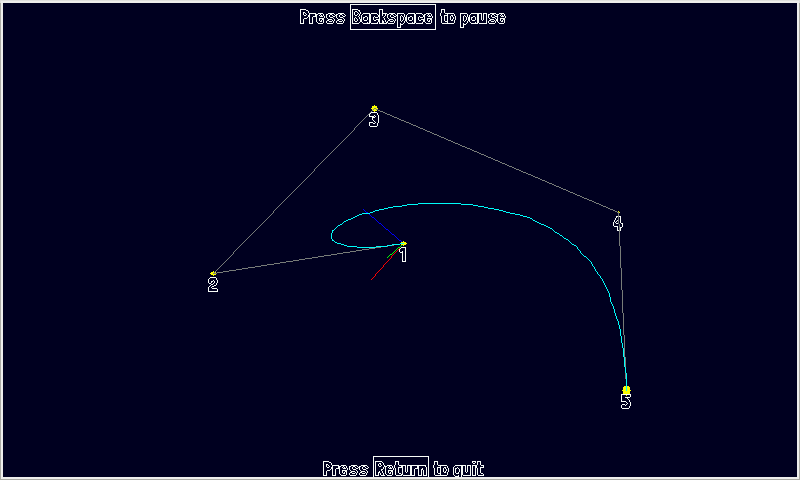
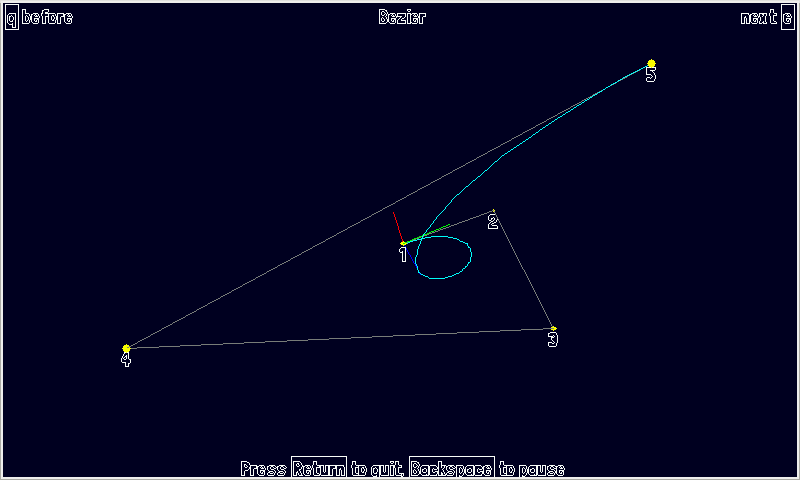
Hermit De Casteljau

diff --git a/curves.c b/curves.c
@@ -17,11 +17,13 @@ typedef struct sPoint
 	pPoint next;
 } tPoint;
 
+#define TYPE_MAX 4
 typedef enum eType
 {
 	lagrange = 0,
 	hermit = 1,
-	bezier = 2
+	bezier = 2,
+	casteljau = 3
 } tType;
 
 tType type = lagrange;
@@ -30,6 +32,7 @@ pPoint firstPoint = NULL;
 pPoint  lastPoint = NULL;
 pPoint* pointArray;
 int pointCount;
+int hermitCount;
 float maxU = 0.0f;
 
 void resize( Uint16 w, Uint16 h )
@@ -98,6 +101,40 @@ float B_g_i(float t,int g,int i)
 	return g_over_i(g,i)*pow(1.0f-t,g-i)*pow(t,i);
 }
 
+float H_3_i(float t,int i)
+{
+	switch (i)
+	{
+		case 0: return (1.0f-t)*(1.0f-t)*(1.0f+2.0f*t);
+		case 1: return t*(1.0f-t)*(1.0f-t);
+		case 2: return -t*t*(1.0f-t);
+		case 3: return (3.0f-2.0f*t)*t*t;
+	}
+	return 0.0f;
+}
+
+float delta_i(int i)
+{
+	return pointArray[i+1]->u-pointArray[i]->u;
+}
+
+float s_i(float t,int i)
+{
+	return (t-pointArray[i]->u)/delta_i(i);
+}
+
+tPoint b_r_i(float t,int r,int i)
+{
+	if (r <= 0)
+		return (*pointArray[i]);
+	tPoint result,L,R;
+	L = b_r_i(t,r-1,i);
+	R = b_r_i(t,r-1,i+1);
+	result.x = (1.0f-t)*L.x+t*R.x;
+	result.y = (1.0f-t)*L.y+t*R.y;
+	result.z = (1.0f-t)*L.z+t*R.z;
+	return result;
+}
 
 void draw(void)
 {
@@ -133,13 +170,13 @@ void draw(void)
 	for (i = 1; i < pointCount; i++)
 		spLine3D(spFloatToFixed(pointArray[i-1]->x),spFloatToFixed(pointArray[i-1]->y),spFloatToFixed(pointArray[i-1]->z),
 						 spFloatToFixed(pointArray[i  ]->x),spFloatToFixed(pointArray[i  ]->y),spFloatToFixed(pointArray[i  ]->z),spGetFastRGB(127,127,127));
-	spSetAlphaTest(0);
   //curve
   float t;
   tPoint prev;
   switch (type)
   {
 		case lagrange:
+			spSetAlphaTest(0);
 			for (t = 0.0f; t <= maxU; t+=0.01f)
 			{
 				tPoint mom = {0.0f,0.0f,0.0f};
@@ -155,7 +192,83 @@ void draw(void)
 					         spFloatToFixed( mom.x),spFloatToFixed( mom.y),spFloatToFixed( mom.z),spGetFastRGB(255,0,255));
 				prev = mom;
 			}
+			spSetAlphaTest(1);
+			spFontDrawMiddle(screen->w>>1,2,-1,"Lagrange",font);
+		break;
 		case hermit:
+			for (i = 0; i < hermitCount; i++)
+				for (t = pointArray[i]->u; t < pointArray[(i+1)%hermitCount]->u; t+=0.01f)
+				{
+					tPoint mom,m1,m2;
+					if (i == 0)
+					{
+						m1.x = pointArray[(i+1)%hermitCount]->x - pointArray[(i+hermitCount-2)%hermitCount]->x;
+						m1.y = pointArray[(i+1)%hermitCount]->y - pointArray[(i+hermitCount-2)%hermitCount]->y;
+						m1.z = pointArray[(i+1)%hermitCount]->z - pointArray[(i+hermitCount-2)%hermitCount]->z;
+					}
+					else
+					if (i != pointCount)
+					{
+						m1.x = pointArray[(i+1)%hermitCount]->x - pointArray[(i+hermitCount-1)%hermitCount]->x;
+						m1.y = pointArray[(i+1)%hermitCount]->y - pointArray[(i+hermitCount-1)%hermitCount]->y;
+						m1.z = pointArray[(i+1)%hermitCount]->z - pointArray[(i+hermitCount-1)%hermitCount]->z;
+					}
+					else
+					{
+						m1.x = pointArray[(i+2)%hermitCount]->x - pointArray[(i+hermitCount-1)%hermitCount]->x;
+						m1.y = pointArray[(i+2)%hermitCount]->y - pointArray[(i+hermitCount-1)%hermitCount]->y;
+						m1.z = pointArray[(i+2)%hermitCount]->z - pointArray[(i+hermitCount-1)%hermitCount]->z;
+					}
+					/*float l = sqrt(m1.x*m1.x+m1.y*m1.y+m1.z*m1.z);
+					m1.x /= l;
+					m1.y /= l;
+					m1.z /= l;*/
+					if (i == 0)
+					{
+						m2.x = pointArray[(i+2)%hermitCount]->x - pointArray[(i+0)%hermitCount]->x;
+						m2.y = pointArray[(i+2)%hermitCount]->y - pointArray[(i+0)%hermitCount]->y;
+						m2.z = pointArray[(i+2)%hermitCount]->z - pointArray[(i+0)%hermitCount]->z;
+					}
+					else
+					if (i != pointCount)
+					{
+						m2.x = pointArray[(i+2)%hermitCount]->x - pointArray[(i+0)%hermitCount]->x;
+						m2.y = pointArray[(i+2)%hermitCount]->y - pointArray[(i+0)%hermitCount]->y;
+						m2.z = pointArray[(i+2)%hermitCount]->z - pointArray[(i+0)%hermitCount]->z;
+					}
+					else
+					{
+						m2.x = pointArray[(i+3)%hermitCount]->x - pointArray[(i+1)%hermitCount]->x;
+						m2.y = pointArray[(i+3)%hermitCount]->y - pointArray[(i+1)%hermitCount]->y;
+						m2.z = pointArray[(i+3)%hermitCount]->z - pointArray[(i+1)%hermitCount]->z;
+					}
+					/*l = sqrt(m2.x*m2.x+m2.y*m2.y+m2.z*m2.z);
+					m2.x /= l;
+					m2.y /= l;
+					m2.z /= l;*/
+					float f1 = H_3_i(s_i(t,i),0);
+					float f2 = delta_i(i) * H_3_i(s_i(t,i),1);
+					float f3 = delta_i(i) * H_3_i(s_i(t,i),2);
+					float f4 = H_3_i(s_i(t,i),3);
+					mom.x = f1 * pointArray[i]->x
+								+ f2 * m1.x
+								+ f3 * m2.x
+								+ f4 * pointArray[(i+1)%hermitCount]->x;
+					mom.y = f1 * pointArray[i]->y
+								+ f2 * m1.y
+								+ f3 * m2.y
+								+ f4 * pointArray[(i+1)%hermitCount]->y;
+					mom.z = f1 * pointArray[i]->z
+								+ f2 * m1.z
+								+ f3 * m2.z
+								+ f4 * pointArray[(i+1)%hermitCount]->z;
+					if (t!=0)
+						spLine3D(spFloatToFixed(prev.x),spFloatToFixed(prev.y),spFloatToFixed(prev.z),
+										 spFloatToFixed( mom.x),spFloatToFixed( mom.y),spFloatToFixed( mom.z),spGetFastRGB(127,127,255));
+					prev = mom;
+				}
+			spFontDrawMiddle(screen->w>>1,2,-1,"Hermite",font);
+		break;
 		case bezier:
 			for (t = 0.0f; t <= 1.0f; t+=0.01f)
 			{
@@ -172,11 +285,23 @@ void draw(void)
 					         spFloatToFixed( mom.x),spFloatToFixed( mom.y),spFloatToFixed( mom.z),spGetFastRGB(0,255,255));
 				prev = mom;
 			}
+			spFontDrawMiddle(screen->w>>1,2,-1,"Bezier",font);
+		break;
+		case casteljau:
+			for (t = 0.0f; t <= 1.0f; t+=0.01f)
+			{
+				tPoint mom = b_r_i(t,pointCount-1,0);
+				if (t!=0)
+					spLine3D(spFloatToFixed(prev.x),spFloatToFixed(prev.y),spFloatToFixed(prev.z),
+					         spFloatToFixed( mom.x),spFloatToFixed( mom.y),spFloatToFixed( mom.z),spGetFastRGB(127,255,127));
+				prev = mom;
+			}
+			spFontDrawMiddle(screen->w>>1,2,-1,"Casteljau",font);
 		break;
 	}
-	spSetAlphaTest(1);
-	spFontDrawMiddle(screen->w>>1,screen->h-font->maxheight-2,-1,"Press [R] to quit",font);
-	spFontDrawMiddle(screen->w>>1,2,-1,"Press [B] to pause",font);
+	spFontDraw(2,2,-1,"[q] before",font);
+	spFontDrawRight(screen->w-8,2,-1,"next [e]",font);
+	spFontDrawMiddle(screen->w>>1,screen->h-font->maxheight-2,-1,"Press [R] to quit, [B] to pause",font);
 	#ifdef SCALE_UP
 	spScale2XSmooth(screen,real_screen);
 	#endif
@@ -191,6 +316,16 @@ int calc(Uint32 steps)
 	{
 		pause = 1-pause;
 		engineInput->button[SP_BUTTON_SELECT] = 0;
+	}
+	if (engineInput->button[SP_BUTTON_L])
+	{
+		type = (type + TYPE_MAX - 1) % TYPE_MAX;
+		engineInput->button[SP_BUTTON_L] = 0;
+	}
+	if (engineInput->button[SP_BUTTON_R])
+	{
+		type = (type + 1) % TYPE_MAX;
+		engineInput->button[SP_BUTTON_R] = 0;
 	}
 	if (!pause)
 		rotation += steps*32;
@@ -248,7 +383,8 @@ int main(int argc, char **argv)
 		printf("Added point ( %6.2f | %6.2f | %6.2f )\n",point->x,point->y,point->z);
 		pointCount++;
 	}
-	pointArray = (pPoint*)malloc(sizeof(pPoint)*pointCount);
+	hermitCount = pointCount+1;
+	pointArray = (pPoint*)malloc(sizeof(pPoint)*hermitCount);
 	i = 0;
 	pPoint point = firstPoint;
 	while (point)
@@ -257,7 +393,12 @@ int main(int argc, char **argv)
 		i++;
 		point = point->next;
 	}
-	
+	pointArray[pointCount] = (pPoint)malloc(sizeof(tPoint));
+	pointArray[pointCount]->x = firstPoint->x;
+	pointArray[pointCount]->y = firstPoint->y;
+	pointArray[pointCount]->z = firstPoint->z;
+	pointArray[pointCount]->u = lastPoint->u + maxU / pointCount;
+	pointArray[pointCount]->next = NULL;
 	spSetDefaultWindowSize( 800, 480 );
 	spInitCore();
 	//Setup
